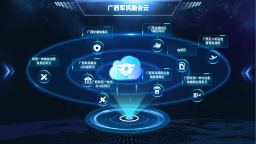
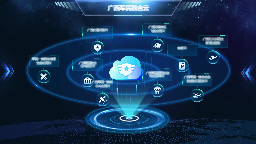
首页动画添加

diff --git a/01daohangye.html b/01daohangye.html
@@ -23,13 +23,116 @@
                 dataModel = new ht.DataModel();
                 graphView = new ht.graph.GraphView(dataModel);
                 graphView.addToDOM();
+                dataModel.enableAnimation()
 
                 ht.Default.xhrLoad('displays/junminronghe/01daohangye.json', function(text) {
                     var json = ht.Default.parse(text);
                     if(json.title) document.title = json.title;
                     dataModel.deserialize(json);
                     graphView.fitContent(true);
+                    
+                    mainCloudAnimation(dataModel)
+                    iconLinkAnimation(dataModel)
                 });
+            }
+            // 中心云朵动画
+            function mainCloudAnimation(dm) {
+                const mainCloud = dm.getDataByTag('center_cloud_block')
+                mainCloud.setAnimation({
+                    hide: {
+                        property: 'opacity',
+                        accessType: 'style',
+                        from: 1,
+                        to: 0.5,
+                        duration: 4000,
+                        next: 'show'
+                    },
+                    show: {
+                        property: 'opacity',
+                        accessType: 'style',
+                        from: 0.5,
+                        to: 1,
+                        duration: 4000,
+                        next: 'hide'
+                    },
+                    start: ['hide']
+                })
+            }
+
+            // 图标浮动动画
+            function iconLinkAnimation(dm){
+                const ceHuiDiLi = dm.getDataByTag('cehuidilixinxi')
+                const jiaoTong = dm.getDataByTag('jiaotongzhanbei')
+                const gongGongFuWu = dm.getDataByTag('gonggongfuwu')
+                const beiDou = dm.getDataByTag('beidou')
+                const feiTing = dm.getDataByTag('feiting')
+                const xueJiang = dm.getDataByTag('xuejiangyun')
+                const yingJiWuZi = dm.getDataByTag('yingjiwuzi')
+                const wuRenJi = dm.getDataByTag('wurenjiguanli')
+                const yingJiJiuYUan = dm.getDataByTag('yingjiliuyuan')
+                const leftIconLinkArray = [
+                    ceHuiDiLi,
+                    jiaoTong,
+                    gongGongFuWu,
+                    beiDou
+                ]
+                const rightIconLinkArray = [
+                    feiTing,
+                    xueJiang,
+                    yingJiWuZi,
+                    wuRenJi,
+                    yingJiJiuYUan
+                ]
+                leftIconLinkArray.forEach((item, index) => {
+                    item.setAnimation({
+                        down: {
+                            from: item.getPosition().y + 10,
+                            to: item.getPosition().y - 10,
+                            duration: 5000,
+                            easing: 'Linear',
+                            next: 'up',
+                            onUpdate: function(value) {
+                                this.setPosition({x:item.getPosition().x, y: value })
+                            }
+                        },
+                        up: {
+                            from: item.getPosition().y - 10,
+                            to: item.getPosition().y + 10,
+                            duration: 5000,
+                            easing: 'Linear',
+                            next: 'down',
+                            onUpdate: function(value) {
+                                this.setPosition({x: item.getPosition().x, y: value})
+                            }
+                        },
+                        start: ['down']
+                    })
+                })
+                rightIconLinkArray.forEach((item, index) => {
+                    item.setAnimation({
+                        down: {
+                            from: item.getPosition().y + 10,
+                            to: item.getPosition().y - 10,
+                            duration: 5000,
+                            easing: 'Linear',
+                            next: 'up',
+                            onUpdate: function(value) {
+                                this.setPosition({x:item.getPosition().x, y: value })
+                            }
+                        },
+                        up: {
+                            from: item.getPosition().y - 10,
+                            to: item.getPosition().y + 10,
+                            duration: 5000,
+                            easing: 'Linear',
+                            next: 'down',
+                            onUpdate: function(value) {
+                                this.setPosition({x: item.getPosition().x, y: value})
+                            }
+                        },
+                        start: ['up']
+                    })
+                })
             }
         </script>
     </head>
